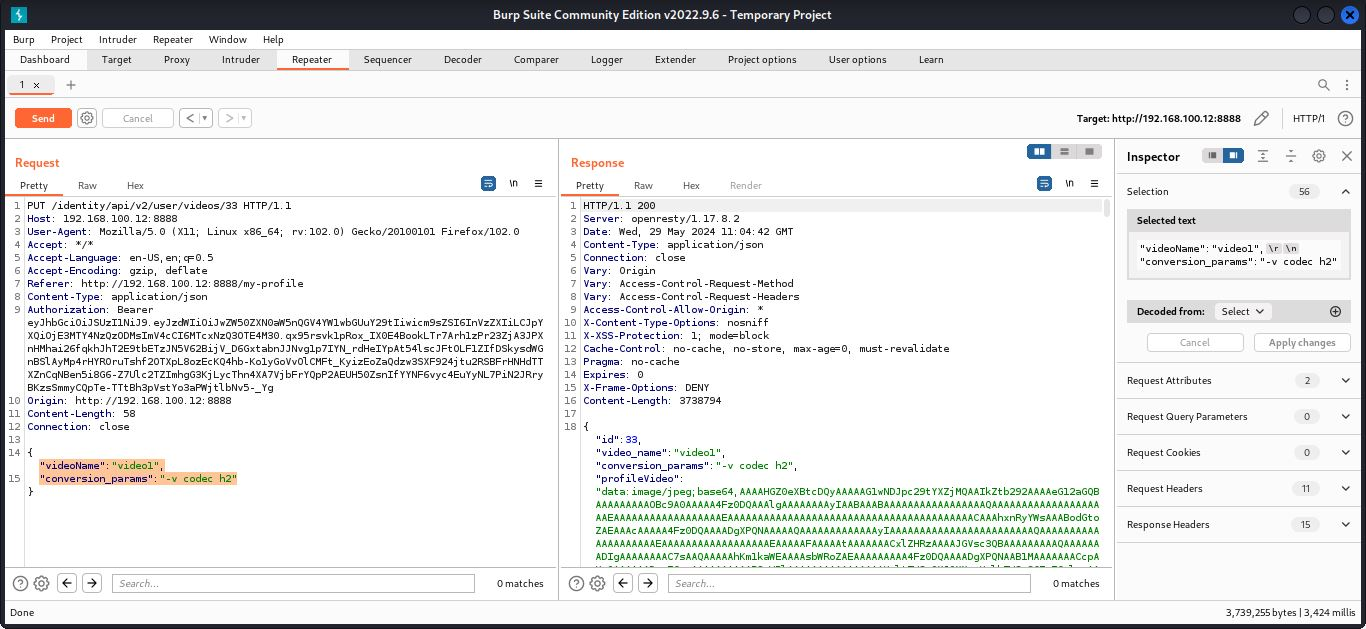
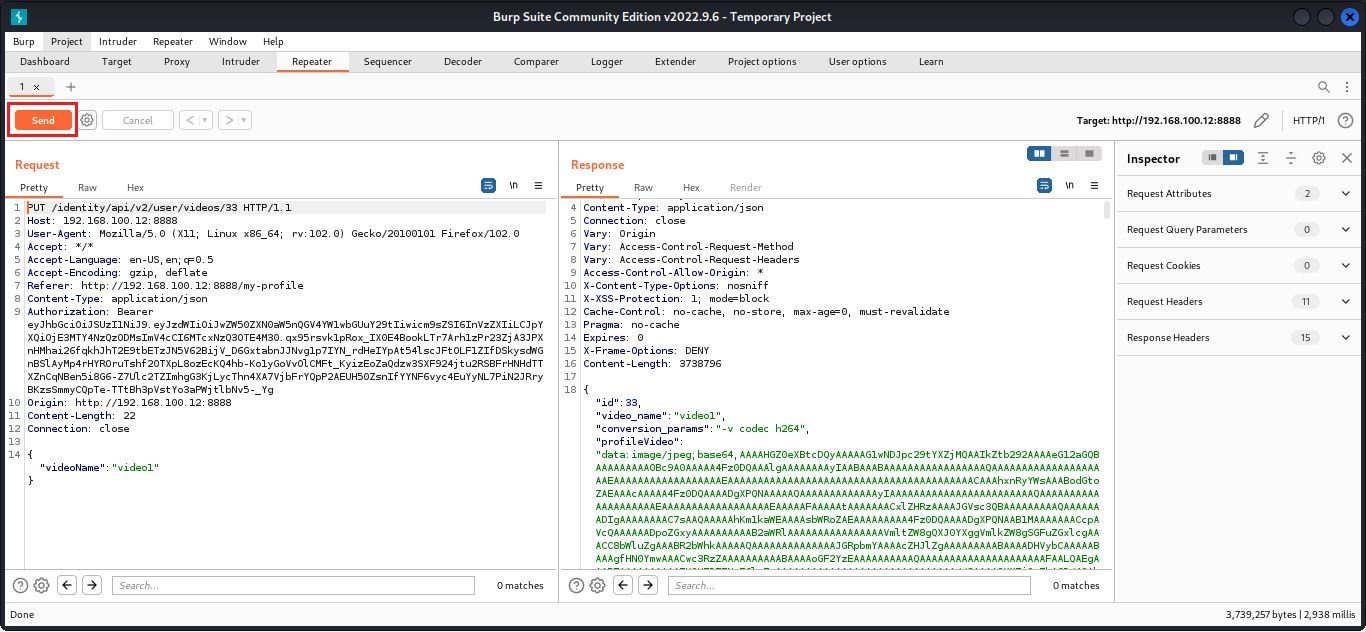
Update writeup

Changed region(s): [[0.0, 0.0, 1.0, 1.0], [0.0, 0.725, 0.1845, 0.7854], [0.8302, 0.8156, 0.8917, 0.8458]]

diff --git a/Mass Assignment.md b/Mass Assignment.md
@@ -4,44 +4,86 @@ Framework terkadang memungkinkan developer untuk mengikat parameter request HTTP
 ## Challenge 8 - Get an item for free
 - Nyalakan tool Burp Suite dan pergi ke halaman **Shop** dan beli salah satu item
 
+![alt text](https://github.com/rahardian-dwi-saputra/crAPI-walkthrough/blob/main/assets/mass%20assignment/mass%201.JPG)
 
 - Pada tool Burp Suite terdeteksi endpoint `/workshop/api/shop/orders` dengan tipe request `POST` yang digunakan untuk melakukan pemesanan
 
+![alt text](https://github.com/rahardian-dwi-saputra/crAPI-walkthrough/blob/main/assets/mass%20assignment/mass%202.JPG)
 
 - Selain itu pada tool Burp Suite terdeteksi endpoint `/workshop/api/shop/orders/all` dengan tipe request `GET` yang menampilkan detail data pesanan
 
+![alt text](https://github.com/rahardian-dwi-saputra/crAPI-walkthrough/blob/main/assets/mass%20assignment/mass%203.JPG)
+
 - Sekarang kita tekan tombol **Order Details**
+
+![alt text](https://github.com/rahardian-dwi-saputra/crAPI-walkthrough/blob/main/assets/mass%20assignment/mass%204.JPG)
 
 - Pada tool Burp Suite terdeteksi endpoint `/workshop/api/shop/orders/` dengan tipe request `GET` yang berisi detail pemesanan dan pembayaran
 
+![alt text](https://github.com/rahardian-dwi-saputra/crAPI-walkthrough/blob/main/assets/mass%20assignment/mass%205.JPG)
+
 - Klik kanan request tersebut dan pilih **Send to Repeater**
+
+![alt text](https://github.com/rahardian-dwi-saputra/crAPI-walkthrough/blob/main/assets/mass%20assignment/mass%206.JPG)
 
 - Pindah ke tab Repeater dan klik tombol **Send**, pada response terdapat informasi bahwa endpoint ini mendukung jenis request `GET, POST, PUT, HEAD, OPTIONS`
 
+![alt text](https://github.com/rahardian-dwi-saputra/crAPI-walkthrough/blob/main/assets/mass%20assignment/mass%207.JPG)
+
 - Disini status pemesanan adalah `delivered` jadi kita akan ubah statusnya menjadi `return` agar saldo kita kembali. Ubah tipe request dari `GET` menjadi `PUT` dan tambahkan parameter `status` dengan nilai `return` kemudian tekan tombol **Send**
+
+![alt text](https://github.com/rahardian-dwi-saputra/crAPI-walkthrough/blob/main/assets/mass%20assignment/mass%208.JPG)
 
 - Dari hasil diatas status `return` tidak tersedia, status yang tersedia hanya `delivered`,`return pending` dan `returned`. Jadi kita ubah saja valuenya menjadi `returned`
 
+![alt text](https://github.com/rahardian-dwi-saputra/crAPI-walkthrough/blob/main/assets/mass%20assignment/mass%209.JPG)
+
 - Sekarang kita kembali ke halaman **Shop** dan saldo kita tetap seperti semula
 
+![alt text](https://github.com/rahardian-dwi-saputra/crAPI-walkthrough/blob/main/assets/mass%20assignment/mass%2010.JPG)
 
 ## Challenge 9 - Increase your balance by $1,000 or more
-- Ulangi langkah diatas hingga mengirimkan endpoint `/workshop/api/shop/orders/` ke tab Repaeter. Sekarang kita cukup menggunakan tipe request `PUT` untuk mengubah data pesanan, menambahkan parameter `status` dengan nilai `returned` agar saldo kita direfund sebanyak total pesanan dan menambahkan parameter `quantity` dengan nilai `100` sehingga saldo kita akan direfund sebanyak `100` kali lipat kemudian tekan tombol **Send**
+- Lakukan pembelian lagi dan ulangi langkah diatas hingga mengirimkan endpoint `/workshop/api/shop/orders/` ke tab Repaeter. Sekarang kita cukup menggunakan tipe request `PUT` untuk mengubah data pesanan, menambahkan parameter `status` dengan nilai `returned` agar saldo kita direfund sebanyak total pesanan dan menambahkan parameter `quantity` dengan nilai `100` sehingga saldo kita akan direfund sebanyak `100` kali lipat kemudian tekan tombol **Send**
 
+![alt text](https://github.com/rahardian-dwi-saputra/crAPI-walkthrough/blob/main/assets/mass%20assignment/mass%2011.JPG)
 
 - Sekarang kita kembali ke halaman **Shop** maka saldo kita bertambah dari `90` menjadi `1090`
+
+![alt text](https://github.com/rahardian-dwi-saputra/crAPI-walkthrough/blob/main/assets/mass%20assignment/mass%2012.JPG)
 
 ## Challenge 10 - Update internal video properties
 - Nyalakan tool Burp Suite dan klik foto profil untuk menuju halaman profil
 
+![alt text](https://github.com/rahardian-dwi-saputra/crAPI-walkthrough/blob/main/assets/mass%20assignment/mass%2013.JPG)
+
 - Jika My Personal Video anda terhapus di Challenge 7 (BFLA). Anda bisa mengunggah lagi dengan klik tanda titik tiga lalu pilih Upload Video
+
+![alt text](https://github.com/rahardian-dwi-saputra/crAPI-walkthrough/blob/main/assets/mass%20assignment/mass%2014.JPG)
+
+![alt text](https://github.com/rahardian-dwi-saputra/crAPI-walkthrough/blob/main/assets/mass%20assignment/mass%2015.JPG)
 
 - Klik tanda titik tiga lagi dan pilih **Change Video Name**
 
+![alt text](https://github.com/rahardian-dwi-saputra/crAPI-walkthrough/blob/main/assets/mass%20assignment/mass%2016.JPG)
+
+- Ubah judul video sesuai dengan yang anda mau
+
+![alt text](https://github.com/rahardian-dwi-saputra/crAPI-walkthrough/blob/main/assets/mass%20assignment/mass%2017.JPG)
+
+![alt text](https://github.com/rahardian-dwi-saputra/crAPI-walkthrough/blob/main/assets/mass%20assignment/mass%2018.JPG)
+
 - Pada Burp Suite akan terdeteksi endpoint `/identity/api/v2/user/videos/id` yang digunakan untuk mengedit video
+
+![alt text](https://github.com/rahardian-dwi-saputra/crAPI-walkthrough/blob/main/assets/mass%20assignment/mass%2019.JPG)
 
 - Klik kanan request tersebut dan pilih Send to Repeater
 
+![alt text](https://github.com/rahardian-dwi-saputra/crAPI-walkthrough/blob/main/assets/mass%20assignment/mass%2020.JPG)
+
 - Pindah ke tab Repeater dan klik tombol **Send**
 
+![alt text](https://github.com/rahardian-dwi-saputra/crAPI-walkthrough/blob/main/assets/mass%20assignment/mass%2021.JPG)
+
 - Disini kita bisa menambahkan parameter `conversion_params` dengan nilai `-v codec h2` lalu klik tombol **Send**. Setelah request terkirim kita berhasil mengubah nilai `conversion_params`
+
+![alt text](https://github.com/rahardian-dwi-saputra/crAPI-walkthrough/blob/main/assets/mass%20assignment/mass%2022.JPG)

diff --git a/README.md b/README.md
@@ -97,6 +97,7 @@ sudo docker-compose -f docker-compose.yml --compatibility up -d
 - [Excessive Data Exposure](Excessive%20Data%20Exposure.md)
 - [Rate Limiting](Rate%20Limiting.md)
 - [Broken Function Level Authorization (BFLA)](Broken%20Level%20Function%20Authorization.md)
+- [Mass Assignment](Mass%20Assignment.md)
 
 ## Disclaimer
 Semua materi yang disajikan disini hanya digunakan sebagai media pembelajaran. Penulis tidak bertanggung jawab atas penyalahgunaan dari materi tersebut
